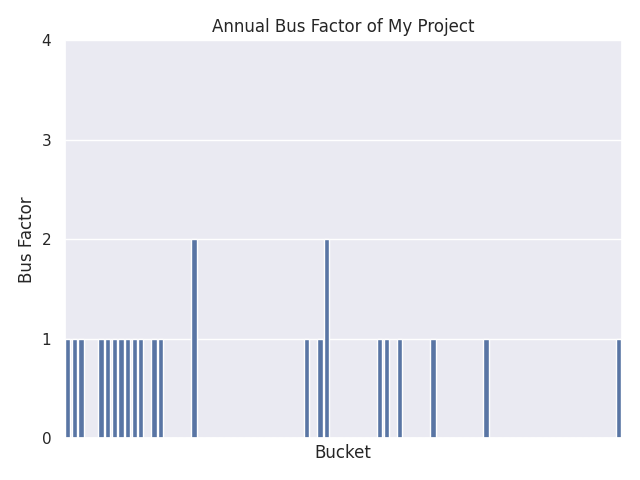
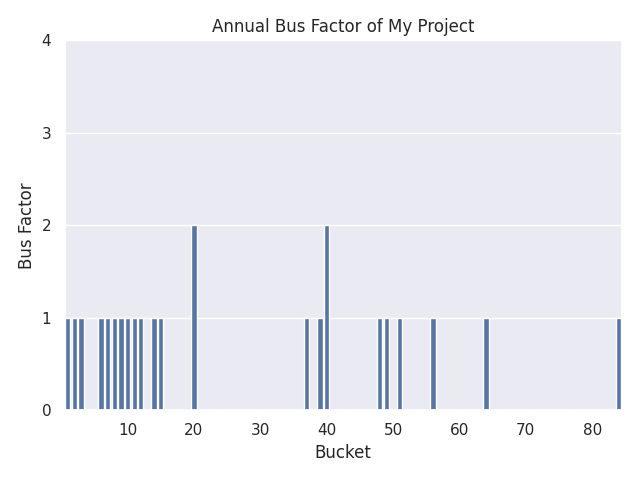
Fixed x axis spacing

diff --git a/plot-data/plot-prime.py b/plot-data/plot-prime.py
@@ -24,12 +24,12 @@ def plot_table(tableName,x,y):
     graph.set_ylabel("Bus Factor")
     plt.title("Annual Bus Factor of "+projectName)
 
-    spacing = math.floor(math.log(df[x].max()))
+    spacing = math.floor(math.log(df[x].max(),10))
     print (tableName+str(spacing))
     print ("xmax: "+str(df[x].max()))
 
     for ind, label in enumerate(graph.get_xticklabels()):
-        if ind % (10**(spacing-2)) == 10**(spacing-2)-1:
+        if ind % (10**(spacing)) == 10**(spacing)-1:
             label.set_visible(True)
         else:
             label.set_visible(False)
